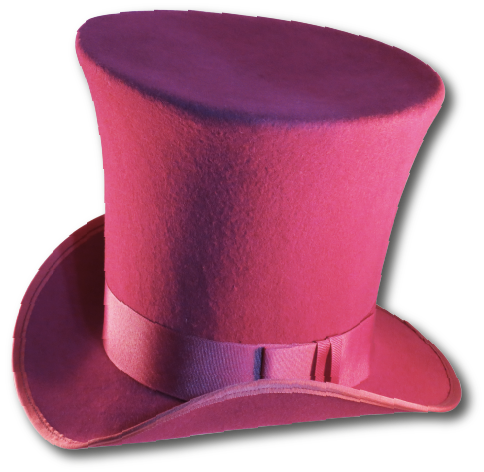
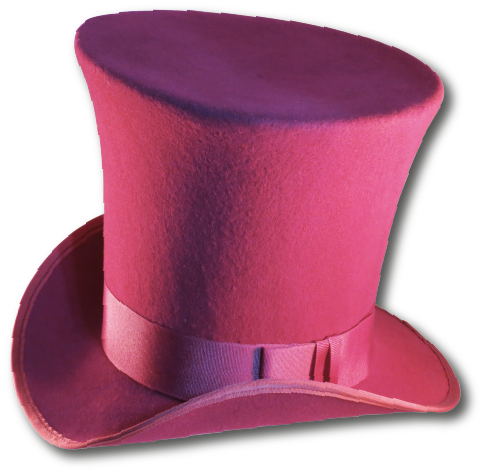
(update)slider: chapeau

diff --git a/public/js/modules/dashboard/slider.html b/public/js/modules/dashboard/slider.html
@@ -12,21 +12,12 @@
         <div class="tp-banner" rs-slider>
             <ul>
                 <!-- SLIDE CHAPEAU -->
-                <li data-delay="7000" data-transition="fade" data-slotamount="7" data-masterspeed="2000">
-                    <div class="lfl ltl tp-caption tp-resizeme" data-x="left" data-y="top" data-start="0" data-speed="500"
-                         data-end="17000"
-                         data-easing="Expo.easeOut">
-                        <img src="/content/img/chapeau/bg-yellow.png">
-                    </div>
-                    <div class="lfr ltr tp-caption tp-resizeme" data-x="399" data-y="top" data-speed="1000"
-                         data-start="500" data-end="17000"
-                         data-easing="Expo.easeOut">
-                        <img src="/content/img/chapeau/bg-pink.png">
-                    </div>
+                <li data-delay="1000000" data-transition="fade" data-slotamount="7" data-masterspeed="2000">
+                    <img src="/content/img/chapeau/bg.png">
 
-                    <div class="sfb stt tp-caption tp-resizeme" data-x="315" data-y="25" data-speed="1000"
-                         data-start="2000" data-end="17000"
-                         data-easing="Expo.easeOut">
+                    <div class="sfb stt tp-caption tp-resizeme " data-x="315" data-y="25" data-hoffset="-83" data-speed="1000"
+                         data-start="2000" data-end="700000"
+                         data-easing="Elastic.easeOut" data-endeasing="Elastic.easeIn">
                         <img src="/content/img/chapeau/pink-hat.png">
                     </div>
                 </li>
